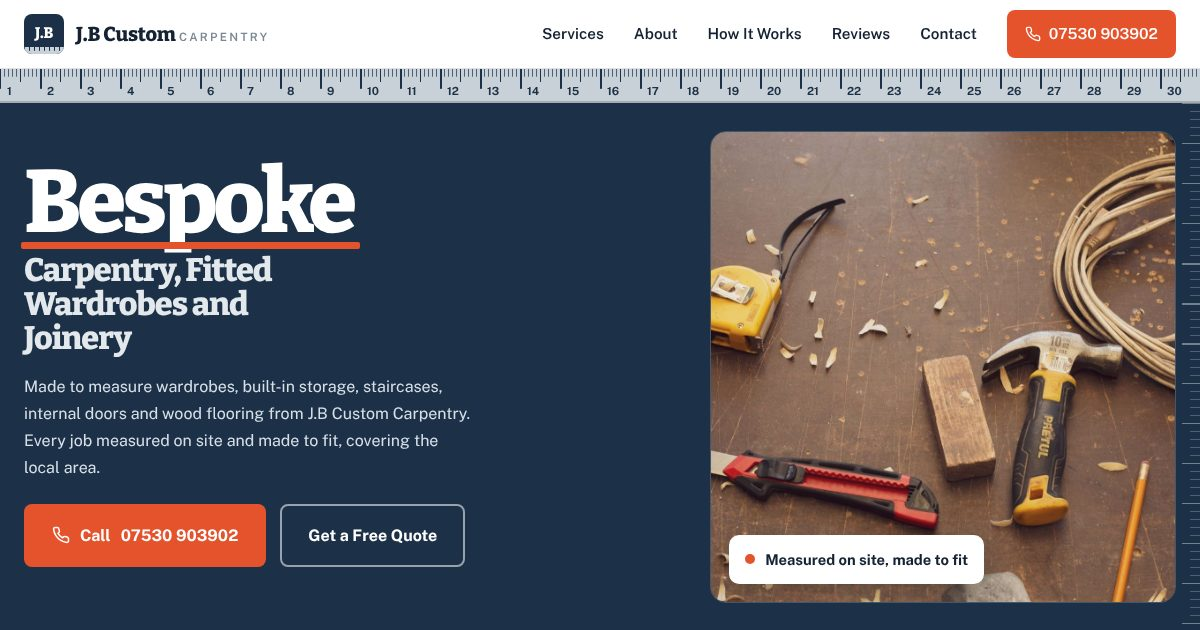
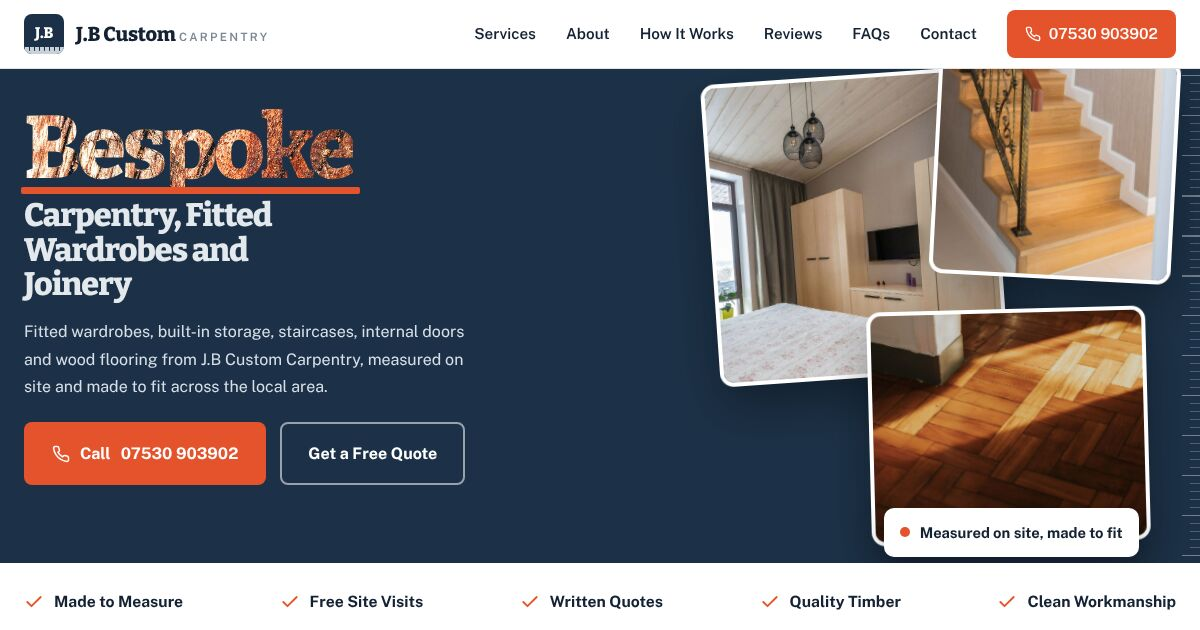
J.B Custom Carpentry A: timber grain headline, photo stack hero, FAQs

diff --git a/jb-custom-carpentry/index.html b/jb-custom-carpentry/index.html
@@ -117,7 +117,19 @@ section{position:relative}
 .hero-inner{padding-top:40px;padding-bottom:48px}
 .hero h1{color:#fff;font-size:clamp(2.1rem,3.2vw,3.1rem);letter-spacing:-.03em;line-height:1.06;max-width:16ch}
 .hero h1 .k{position:relative;display:inline-block;color:#fff;font-size:clamp(5rem,9.4vw,8.6rem);line-height:.9;letter-spacing:-.045em;margin-bottom:.12em}
+.hero h1 .k{background:#fff url(grain-light.jpg) 50% 30%/140% auto;-webkit-background-clip:text;background-clip:text;-webkit-text-fill-color:transparent;animation:grainpan 14s ease-in-out 2s infinite alternate}
+@keyframes grainpan{to{background-position:50% 75%}}
 .hero h1 .rest{display:block;color:var(--steel-lt)}
+/* photo stack: three rooms fanned out beside the statement */
+.hero-grid{width:100%}
+.hero-stack{position:relative;height:calc(100% - 40px);max-height:600px;min-height:0}
+.hero-stack figure{position:absolute;border-radius:14px;overflow:hidden;border:4px solid #fff;box-shadow:0 22px 50px rgba(0,0,0,.35);opacity:0;animation:deal .8s cubic-bezier(.2,.7,.2,1) forwards}
+.hero-stack img{width:100%;height:100%;object-fit:cover}
+.hero-stack .p1{left:0;top:4%;width:62%;height:62%;--r:-4deg;animation-delay:2.15s}
+.hero-stack .p2{right:0;top:0;width:52%;height:46%;--r:3deg;animation-delay:2.35s}
+.hero-stack .p3{right:6%;bottom:0;width:60%;height:48%;--r:-1.5deg;animation-delay:2.55s;z-index:2}
+@keyframes deal{from{opacity:0;transform:translateY(40px) rotate(0deg) scale(.94)}to{opacity:1;transform:rotate(var(--r))}}
+.hero-stack .hero-badge{z-index:3;left:auto;right:8%;bottom:-14px}
 .hero h1 .k::after{content:"";position:absolute;left:-1%;right:-2%;bottom:-.06em;height:.075em;background:var(--pencil);border-radius:2px;transform:scaleX(0) rotate(-1.2deg);transform-origin:0 50%;animation:draw .55s cubic-bezier(.6,0,.3,1) 2.45s forwards}
 .lede{margin-top:24px;font-size:1.08rem;line-height:1.7;color:#d7e0e8;max-width:46ch}
 .hero-ctas{display:flex;gap:14px;margin-top:32px;flex-wrap:wrap}
@@ -179,6 +191,21 @@ section{position:relative}
 .band h2{color:#fff;max-width:20ch}
 .band p{color:#d7e0e8;margin-top:10px}
 
+/* faq */
+.faq-grid{display:grid;grid-template-columns:.8fr 1.2fr;gap:56px;align-items:start}
+.faq{border-bottom:1px solid var(--line)}
+.faq:first-child{border-top:2px solid var(--ink)}
+.faq summary{list-style:none;cursor:pointer;display:flex;justify-content:space-between;gap:20px;align-items:center;padding:22px 0;font-family:'Bitter',serif;font-weight:800;font-size:1.18rem;color:var(--ink);line-height:1.3}
+.faq summary::-webkit-details-marker{display:none}
+.faq summary i{flex:none;width:30px;height:30px;border-radius:50%;background:var(--stone);position:relative;transition:background .2s}
+.faq summary i::before,.faq summary i::after{content:"";position:absolute;left:50%;top:50%;width:12px;height:2px;margin:-1px 0 0 -6px;background:var(--pencil);transition:transform .25s}
+.faq summary i::after{transform:rotate(90deg)}
+.faq[open] summary i::after{transform:rotate(0)}
+.faq p{padding-bottom:22px;max-width:60ch}
+/* band: timber under the blue */
+.band{background:linear-gradient(rgba(28,49,71,.88),rgba(28,49,71,.92)),url(grain.jpg) center/cover}
+.band h2{font-size:clamp(2.1rem,4.6vw,3.4rem)}
+
 /* contact */
 .contact-grid{display:grid;grid-template-columns:.9fr 1.1fr;gap:48px;align-items:start}
 .contact p.lead{margin-top:14px;max-width:44ch}
@@ -229,7 +256,9 @@ footer a:hover{color:#fff}
 @media (max-width:980px){
   .svc-grid{grid-template-columns:repeat(2,1fr)}
   .hero-grid{grid-template-columns:1fr;height:auto}
-  .hero-photo{display:none}
+  .hero-grid{gap:0}
+  .hero-stack{height:300px;max-width:560px;margin-bottom:48px;margin-top:4px}
+  .hero-stack .hero-badge{display:none}
   .about-grid,.contact-grid{grid-template-columns:1fr}
 }
 @media (max-width:880px){
@@ -246,6 +275,7 @@ footer a:hover{color:#fff}
   .step,.step+.step{padding:24px 0 20px;border-left:0;border-bottom:1px solid var(--line)}
   .rev-grid{grid-template-columns:1fr}
   .band-in{flex-direction:column;align-items:flex-start}
+  .faq-grid{grid-template-columns:1fr;gap:0}
   .foot-grid{grid-template-columns:1fr}
 }
 @media (max-width:780px){
@@ -287,6 +317,7 @@ footer a:hover{color:#fff}
       <li><a href="#about">About</a></li>
       <li><a href="#process">How It Works</a></li>
       <li><a href="#reviews">Reviews</a></li>
+      <li><a href="#faq">FAQs</a></li>
       <li><a href="#contact">Contact</a></li>
       <li><a href="#" class="nav-cta js-call"><svg viewBox="0 0 24 24" fill="none" stroke-width="2" stroke-linecap="round" stroke-linejoin="round"><path d="M22 16.9v3a2 2 0 0 1-2.2 2 19.8 19.8 0 0 1-8.6-3.1 19.5 19.5 0 0 1-6-6A19.8 19.8 0 0 1 2.1 4.2 2 2 0 0 1 4.1 2h3a2 2 0 0 1 2 1.7c.1.9.4 1.8.7 2.7a2 2 0 0 1-.5 2.1L8 9.8a16 16 0 0 0 6 6l1.3-1.3a2 2 0 0 1 2.1-.4c.9.3 1.8.6 2.7.7a2 2 0 0 1 1.7 2z"/></svg><span class="js-phone">Call us</span></a></li>
     </ul>
@@ -297,6 +328,7 @@ footer a:hover{color:#fff}
     <a href="#about">About</a>
     <a href="#process">How It Works</a>
     <a href="#reviews">Reviews</a>
+    <a href="#faq">FAQs</a>
     <a href="#contact">Contact</a>
     <a href="#" class="btn btn-pencil js-call"><svg viewBox="0 0 24 24" fill="none" stroke="#fff" stroke-width="2" stroke-linecap="round" stroke-linejoin="round"><path d="M22 16.9v3a2 2 0 0 1-2.2 2 19.8 19.8 0 0 1-8.6-3.1 19.5 19.5 0 0 1-6-6A19.8 19.8 0 0 1 2.1 4.2 2 2 0 0 1 4.1 2h3a2 2 0 0 1 2 1.7c.1.9.4 1.8.7 2.7a2 2 0 0 1-.5 2.1L8 9.8a16 16 0 0 0 6 6l1.3-1.3a2 2 0 0 1 2.1-.4c.9.3 1.8.6 2.7.7a2 2 0 0 1 1.7 2z"/></svg>Call <span class="js-phone">us</span></a>
   </div>
@@ -309,15 +341,17 @@ footer a:hover{color:#fff}
   <div class="wrap hero-grid">
     <div class="hero-inner">
       <h1 class="fade d1"><span class="k">Bespoke</span> <span class="rest">Carpentry, Fitted Wardrobes and Joinery</span></h1>
-      <p class="lede fade d2">Made to measure wardrobes, built-in storage, staircases, internal doors and wood flooring from J.B Custom Carpentry. Every job measured on site and made to fit, covering the local area.</p>
+      <p class="lede fade d2">Fitted wardrobes, built-in storage, staircases, internal doors and wood flooring from J.B Custom Carpentry, measured on site and made to fit across the local area.</p>
       <div class="hero-ctas fade d3" id="heroCtas">
         <a href="#" class="btn btn-pencil js-call"><svg viewBox="0 0 24 24" fill="none" stroke="#fff" stroke-width="2" stroke-linecap="round" stroke-linejoin="round"><path d="M22 16.9v3a2 2 0 0 1-2.2 2 19.8 19.8 0 0 1-8.6-3.1 19.5 19.5 0 0 1-6-6A19.8 19.8 0 0 1 2.1 4.2 2 2 0 0 1 4.1 2h3a2 2 0 0 1 2 1.7c.1.9.4 1.8.7 2.7a2 2 0 0 1-.5 2.1L8 9.8a16 16 0 0 0 6 6l1.3-1.3a2 2 0 0 1 2.1-.4c.9.3 1.8.6 2.7.7a2 2 0 0 1 1.7 2z"/></svg>Call <span class="js-phone">us</span></a>
         <a href="#contact" class="btn btn-line">Get a Free Quote</a>
       </div>
     </div>
-    <div class="hero-photo fade d4">
-      <img src="workbench.jpg" alt="Tape measure, hammer, knife and pencil on a workbench covered in wood shavings" width="1600" height="1066">
-      <div class="hero-badge"><i></i>Measured on site, made to fit</div>
+    <div class="hero-stack">
+      <figure class="p1"><img src="fitted-wardrobes.jpg" alt="Pale timber fitted wardrobes along a bedroom wall" width="1400" height="933"></figure>
+      <figure class="p2"><img src="staircases.jpg" alt="Oak staircase treads against white walls" width="1400" height="933"></figure>
+      <figure class="p3"><img src="wood-flooring.jpg" alt="Herringbone parquet floor in afternoon sunlight" width="1400" height="933"></figure>
+      <div class="hero-badge fade d4"><i></i>Measured on site, made to fit</div>
     </div>
   </div>
 </section>
@@ -377,6 +411,20 @@ footer a:hover{color:#fff}
       <div class="rev reveal"><div class="stars"><svg viewBox="0 0 24 24"><path d="m12 2 3.1 6.3 6.9 1-5 4.9 1.2 6.8L12 17.8 5.8 21l1.2-6.8-5-4.9 6.9-1z"/></svg><svg viewBox="0 0 24 24"><path d="m12 2 3.1 6.3 6.9 1-5 4.9 1.2 6.8L12 17.8 5.8 21l1.2-6.8-5-4.9 6.9-1z"/></svg><svg viewBox="0 0 24 24"><path d="m12 2 3.1 6.3 6.9 1-5 4.9 1.2 6.8L12 17.8 5.8 21l1.2-6.8-5-4.9 6.9-1z"/></svg><svg viewBox="0 0 24 24"><path d="m12 2 3.1 6.3 6.9 1-5 4.9 1.2 6.8L12 17.8 5.8 21l1.2-6.8-5-4.9 6.9-1z"/></svg><svg viewBox="0 0 24 24"><path d="m12 2 3.1 6.3 6.9 1-5 4.9 1.2 6.8L12 17.8 5.8 21l1.2-6.8-5-4.9 6.9-1z"/></svg></div><p>Engineered oak laid through the hall and lounge with new skirting. Cuts around the fireplace are spot on. Would use J.B Custom Carpentry again.</p><div class="who">Tom R. <span>Wood flooring</span></div></div>
     </div>
   </div>
+</section>
+
+<section class="sec" id="faq">
+  <div class="wrap faq-grid">
+    <div class="sec-head reveal"><h2>Frequently asked questions</h2></div>
+    <div class="faq-list">
+      <details class="faq reveal" open><summary>Do you offer free quotes?<i aria-hidden="true"></i></summary><p>Yes. Every job starts with a free site visit to measure up, followed by a written, itemised quote before any timber is ordered.</p></details>
+      <details class="faq reveal"><summary>Can fitted wardrobes go into alcoves or under eaves?<i aria-hidden="true"></i></summary><p>Yes. Every wardrobe is made to the measurements of the room, so alcoves, sloping ceilings and uneven walls are planned in from the start.</p></details>
+      <details class="faq reveal"><summary>Which timbers and finishes can I choose from?<i aria-hidden="true"></i></summary><p>Timber, door style, finish and handles are agreed at the site visit, from solid and engineered oak to painted doors, to suit the room.</p></details>
+      <details class="faq reveal"><summary>How long does a carpentry job take?<i aria-hidden="true"></i></summary><p>It depends on the size of the job. The timescale is set out in the written quote, so you know the fitting dates before work starts.</p></details>
+      <details class="faq reveal"><summary>Is the room left clean after fitting?<i aria-hidden="true"></i></summary><p>Yes. Offcuts and dust are cleared at the end of every day and the room is left ready to use when the job is finished.</p></details>
+    </div>
+  </div>
+  <script type="application/ld+json">{"@context": "https://schema.org", "@type": "FAQPage", "mainEntity": [{"@type": "Question", "name": "Do you offer free quotes?", "acceptedAnswer": {"@type": "Answer", "text": "Yes. Every job starts with a free site visit to measure up, followed by a written, itemised quote before any timber is ordered."}}, {"@type": "Question", "name": "Can fitted wardrobes go into alcoves or under eaves?", "acceptedAnswer": {"@type": "Answer", "text": "Yes. Every wardrobe is made to the measurements of the room, so alcoves, sloping ceilings and uneven walls are planned in from the start."}}, {"@type": "Question", "name": "Which timbers and finishes can I choose from?", "acceptedAnswer": {"@type": "Answer", "text": "Timber, door style, finish and handles are agreed at the site visit, from solid and engineered oak to painted doors, to suit the room."}}, {"@type": "Question", "name": "How long does a carpentry job take?", "acceptedAnswer": {"@type": "Answer", "text": "It depends on the size of the job. The timescale is set out in the written quote, so you know the fitting dates before work starts."}}, {"@type": "Question", "name": "Is the room left clean after fitting?", "acceptedAnswer": {"@type": "Answer", "text": "Yes. Offcuts and dust are cleared at the end of every day and the room is left ready to use when the job is finished."}}]}</script>
 </section>
 
 <section class="band">
